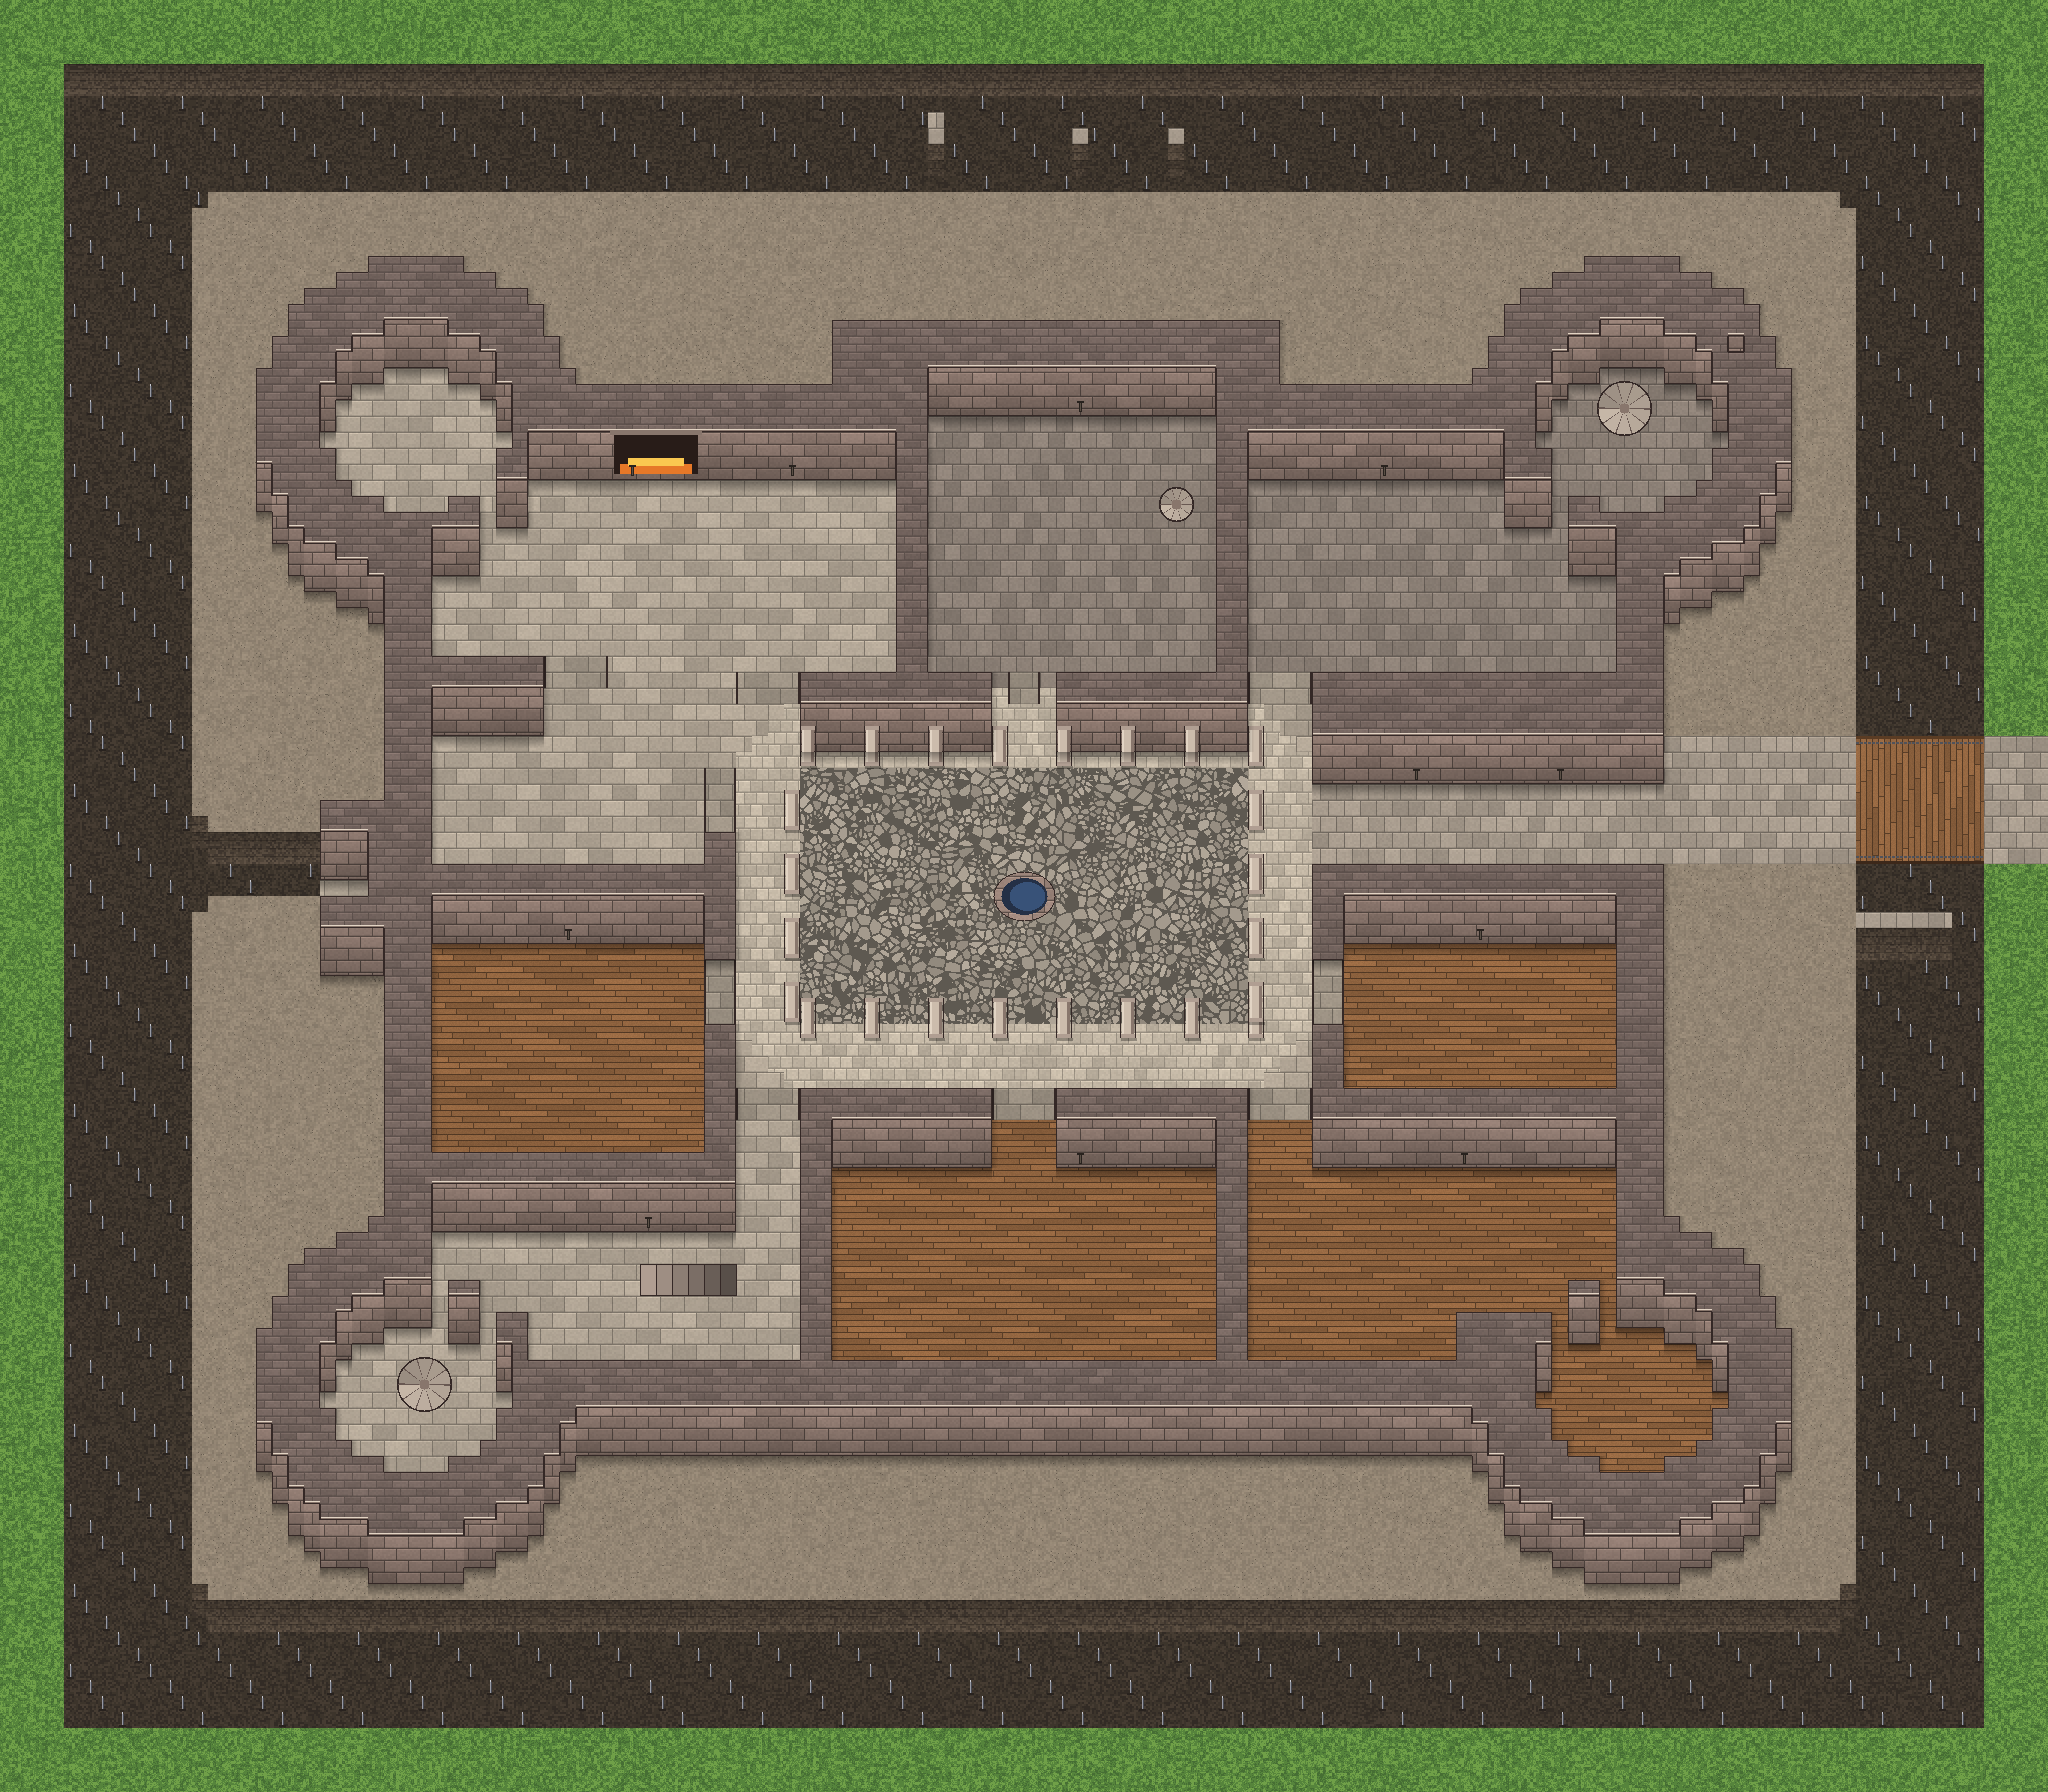
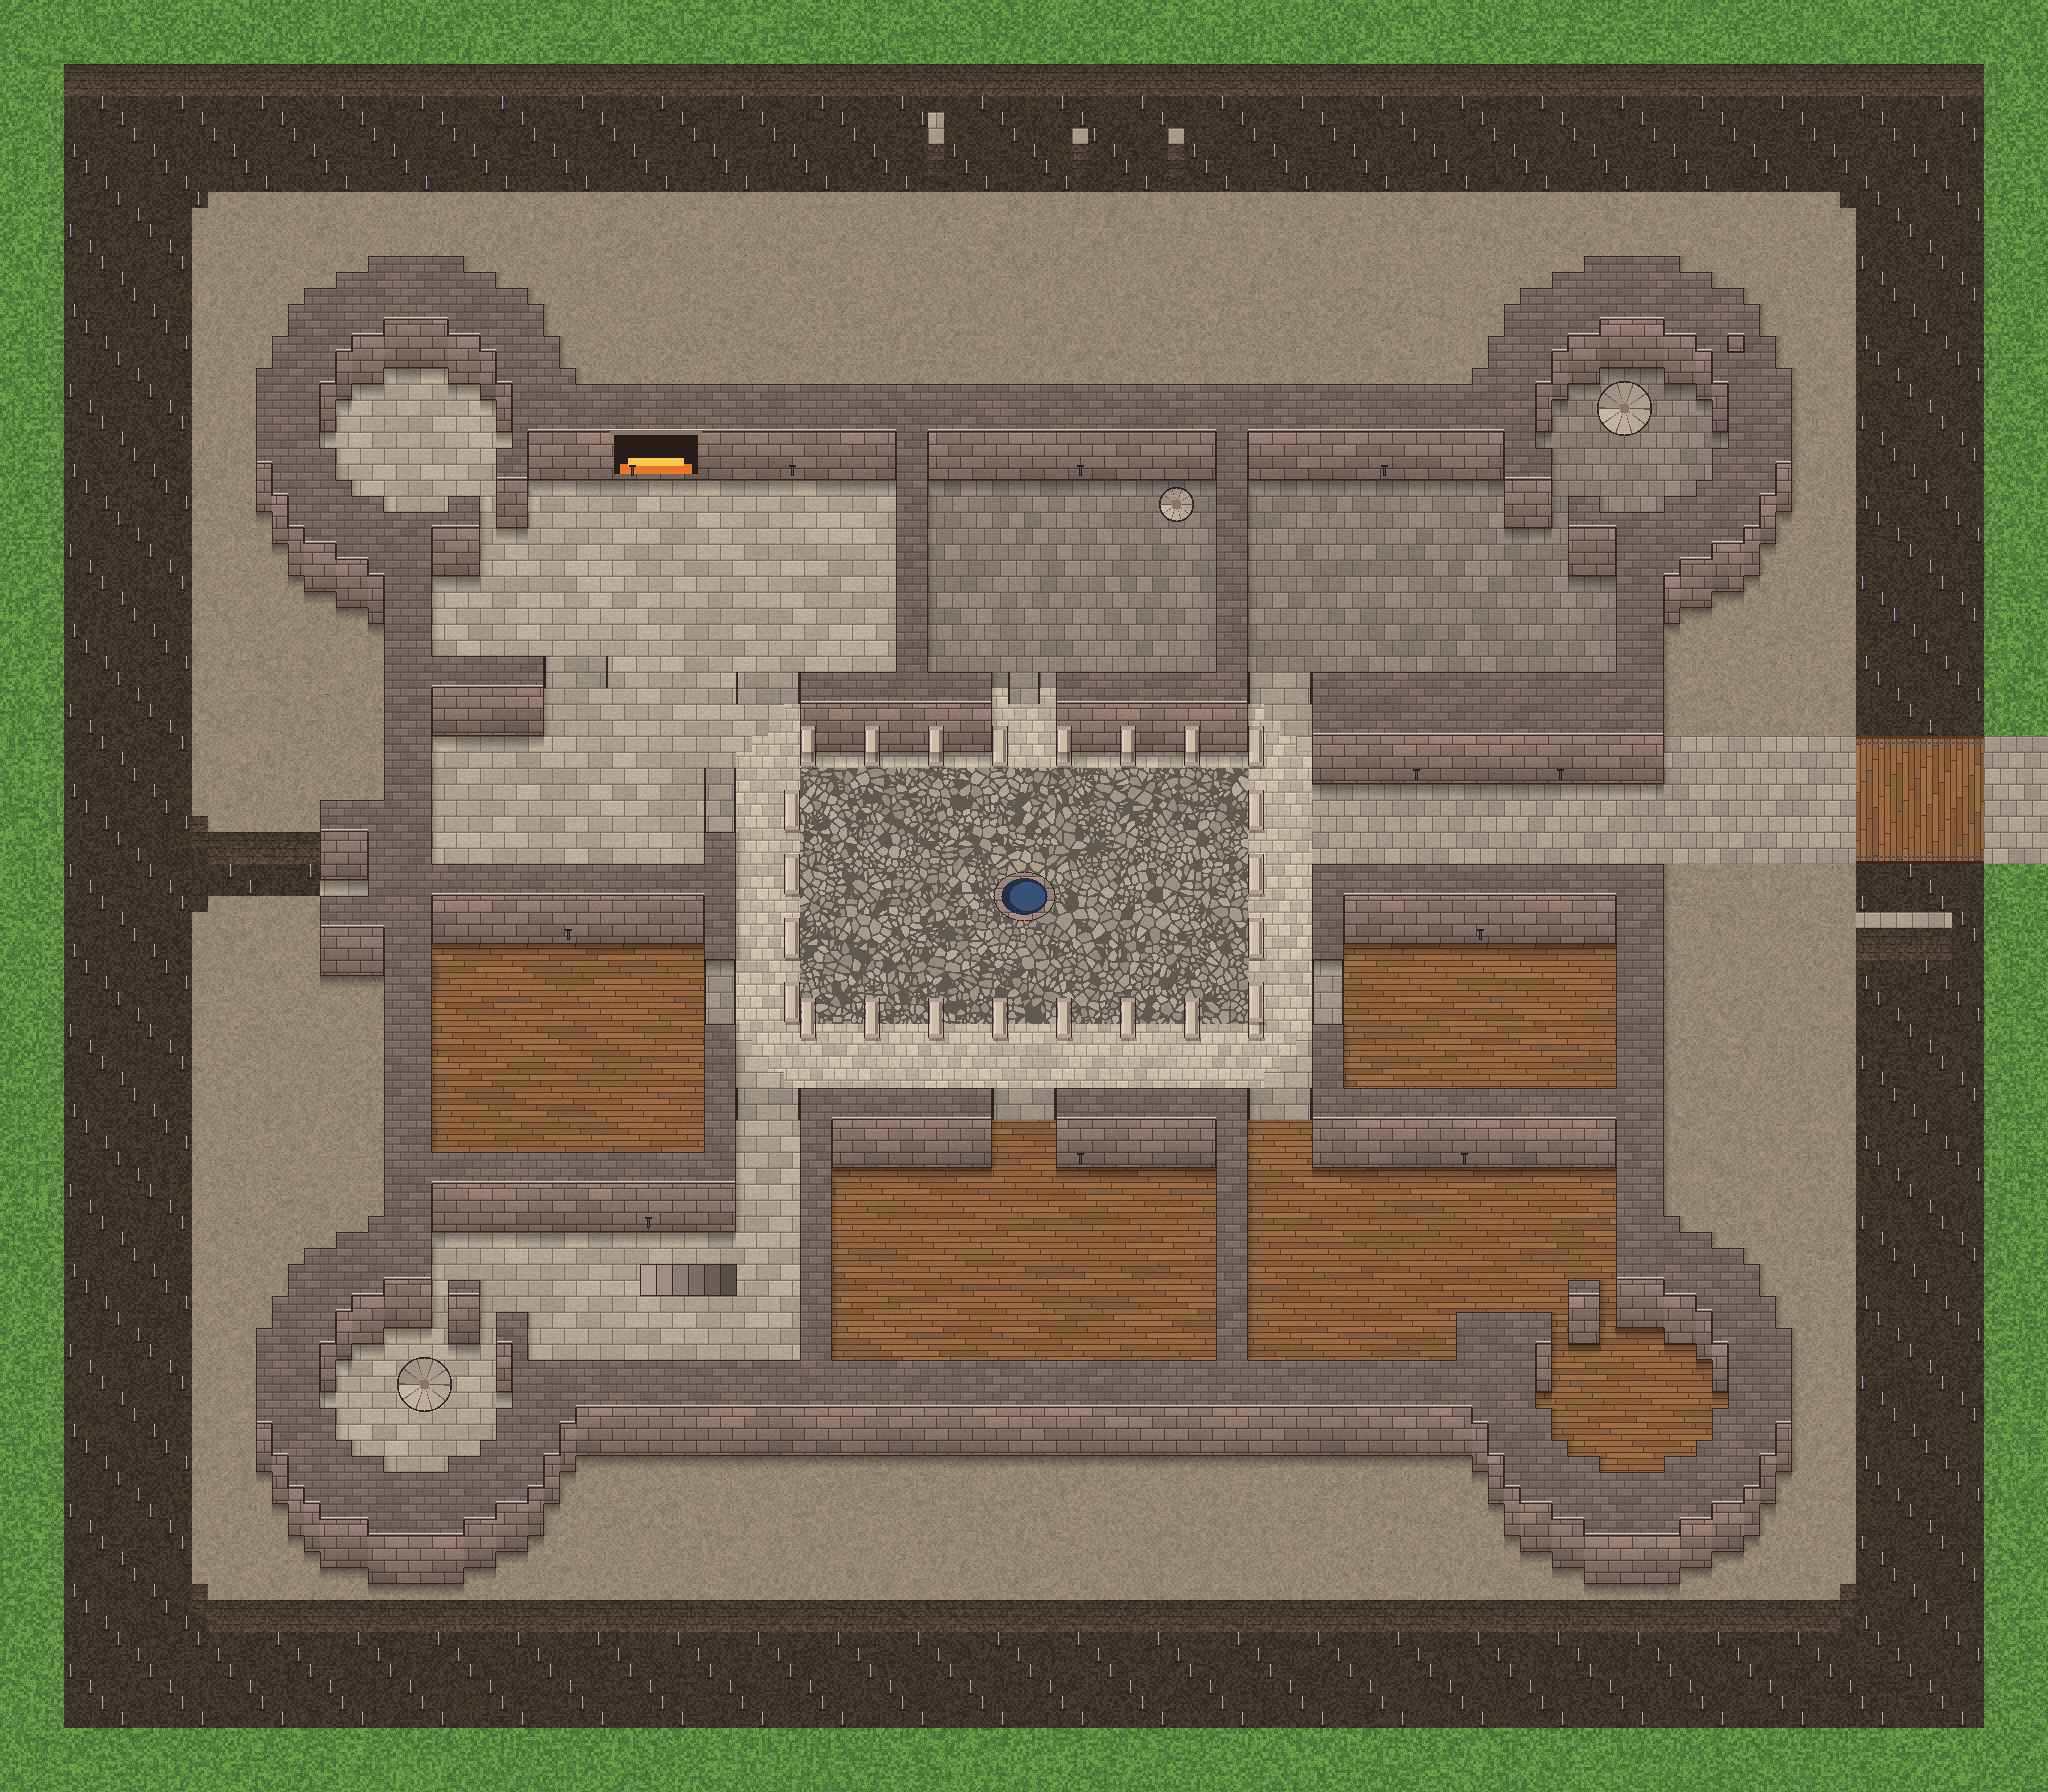
Holdfast GF: north projection removed, armoury wall flush with kitchen and guardroom
Claude-Session: https://claude.ai/code/session_01GSamoHXsCumctgS8PFsM3M

Changed region(s): [[0.4062, 0.1562, 0.625, 0.2812]]

diff --git a/tools/build_holdfast_gf.py b/tools/build_holdfast_gf.py
@@ -135,7 +135,7 @@ g[27:42, 48:56] = 'room'; g[23:42, 56:58] = 'wall'; g[23:42, 58:76] = 'room'; g[
 g[23:27, 46:56] = 'wall'
 # the projecting north block (outside y 20, was x 46-73) follows the armoury east so it sits centred over it
 # (x 52-79); over the kitchen the edge drops back to the straight curtain line (y 24)
-g[20:24, 46:52] = 'ground'; g[20:24, 52:80] = 'wall'; g[23, 58:76] = 'room'
+g[20:24, 46:80] = 'ground'; g[24:27, 56:78] = 'wall'          # (user) no projecting block: straight north edge
 # (user) the pantry's north wall (kitchen / pantry, y 42-43) moves one tile north
 for x in range(27, 46):
     if g[42, x] in ('wall', 'door') and g[41, x] == 'room' and g[44, x] == 'room':
